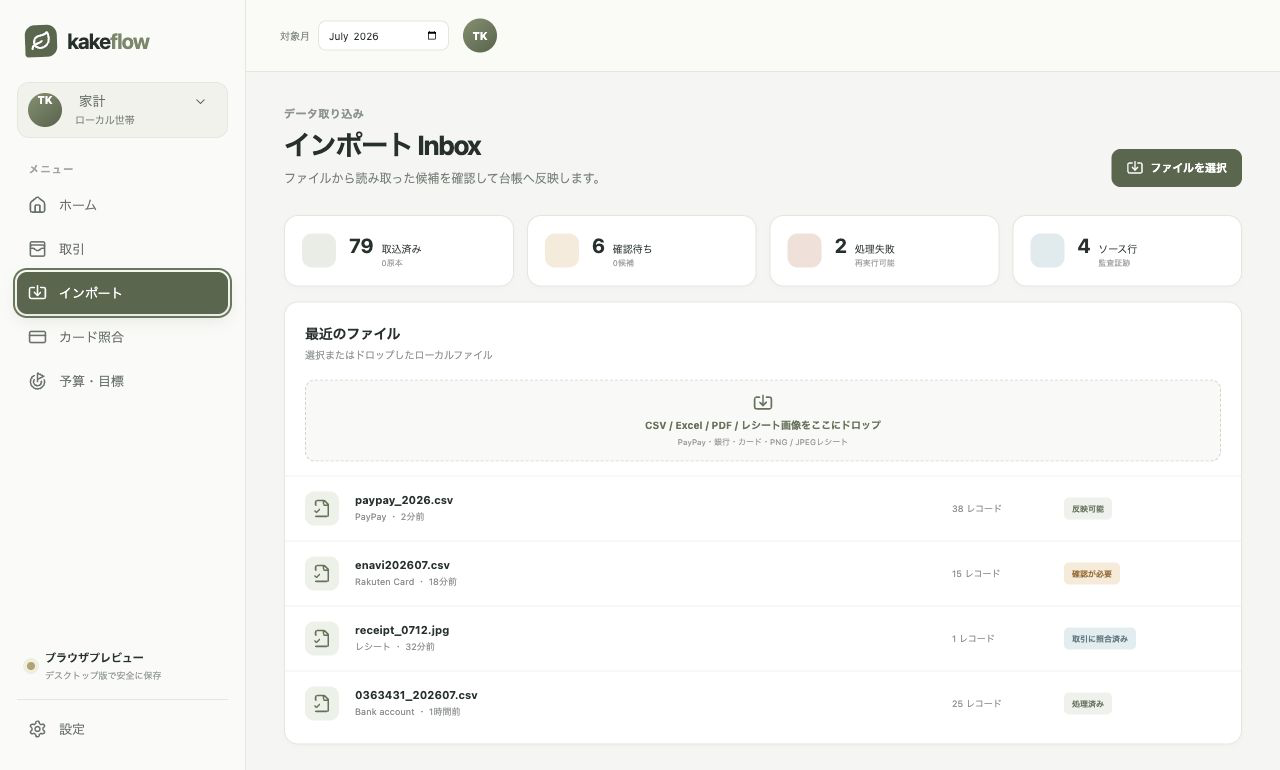
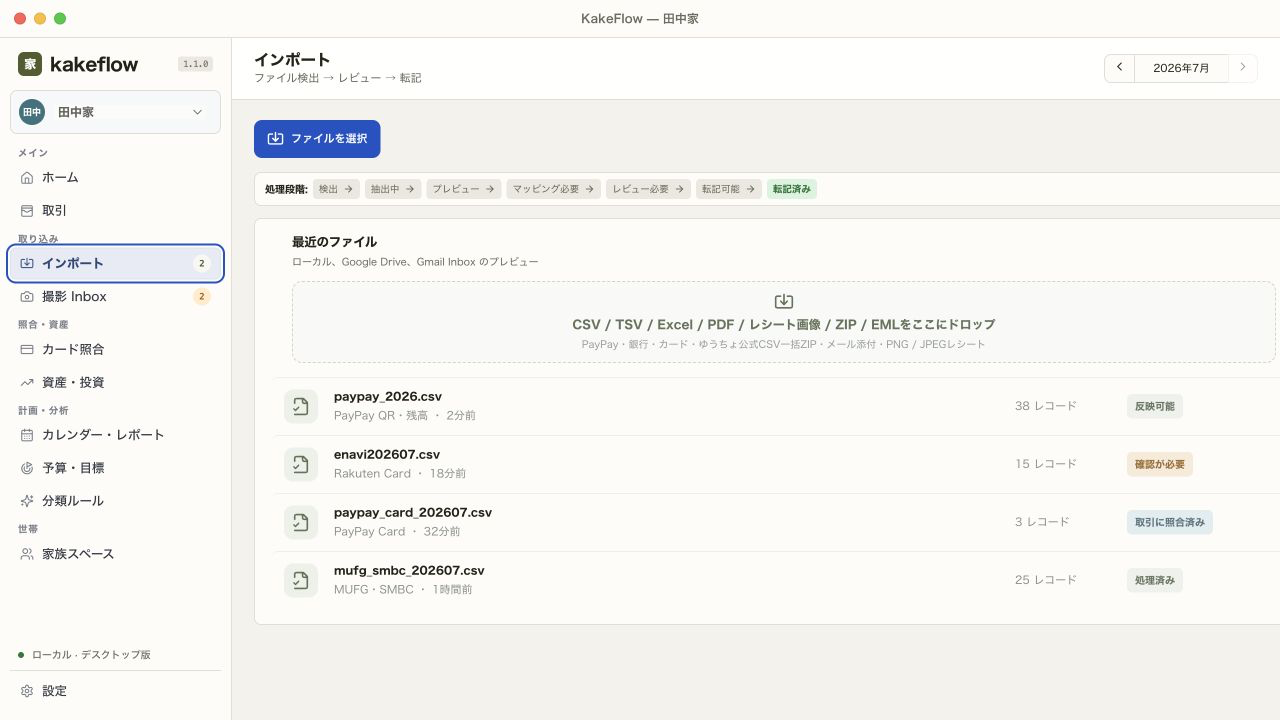
Rewrite KakeFlow page for new UI

diff --git a/apps/kakeflow/index.html b/apps/kakeflow/index.html
@@ -3,18 +3,20 @@
 <head>
   <meta charset="utf-8">
   <meta name="viewport" content="width=device-width, initial-scale=1">
-  <title>KakeFlow — 家計の流れを、正しくひとつに。</title>
-  <meta name="description" content="KakeFlow は、銀行・カード・レシート・証券データを、根拠の残る家計簿へまとめる開発中のローカルファースト・デスクトップアプリです。">
+  <title>KakeFlow — 記録から、次のアクションへ。</title>
+  <meta name="description" content="KakeFlow は、家計データを端末内で取り込み、確認し、根拠の残る台帳から次に必要なアクションまで見渡せる、開発中のローカルファースト・デスクトップアプリです。">
   <link rel="canonical" href="https://thangldw.github.io/apps/kakeflow/">
   <meta property="og:type" content="website">
-  <meta property="og:title" content="KakeFlow — Coming soon">
-  <meta property="og:description" content="ばらばらな家計データを、照合できる台帳とダッシュボードへ。">
+  <meta property="og:title" content="KakeFlow — 記録から、次のアクションへ。">
+  <meta property="og:description" content="取り込み、確認、照合、計画を、ひとつの家計ワークスペースで。">
   <meta property="og:url" content="https://thangldw.github.io/apps/kakeflow/">
   <meta property="og:image" content="https://thangldw.github.io/apps/kakeflow/assets/screenshots/kakeflow-overview.png">
+  <meta property="og:image:width" content="1280">
+  <meta property="og:image:height" content="720">
   <meta name="twitter:card" content="summary_large_image">
   <meta name="theme-color" content="#f7f6f1">
   <link rel="icon" href="/favicon.svg" type="image/svg+xml">
-  <link rel="stylesheet" href="kakeflow-page.css?v=20260714">
+  <link rel="stylesheet" href="kakeflow-page.css?v=20260716">
   <script defer src="/js/analytics.js"></script>
 </head>
 <body>
@@ -25,10 +27,10 @@
       <a class="wordmark" href="#top" aria-label="KakeFlow ホーム">kake<span>flow</span></a>
       <button class="menu-toggle" type="button" aria-expanded="false" aria-controls="primary-nav">メニュー</button>
       <nav id="primary-nav" aria-label="ページ内ナビゲーション">
-        <a href="#workflow">仕組み</a>
+        <a href="#workflow">使い方</a>
         <a href="#screens">画面</a>
-        <a href="#investments">投資管理</a>
-        <a href="#roadmap">公開予定</a>
+        <a href="#workspaces">できること</a>
+        <a href="#release">リリース</a>
       </nav>
       <a class="button button-small button-outline" href="/apps/">All projects</a>
     </div>
@@ -39,132 +41,132 @@
       <div class="hero-shell">
         <div class="hero-copy">
           <p class="status-line"><span aria-hidden="true"></span>COMING SOON · PRIVATE DEVELOPMENT</p>
-          <p class="eyebrow">HOUSEHOLD FINANCE, WITH A TRACEABLE SOURCE</p>
-          <h1>家計の流れを、<br><em>正しくひとつに。</em></h1>
-          <p class="hero-lede">銀行、カード、PayPay、レシート、PDF、証券口座。ばらばらの記録をあなたのパソコンでつなぎ、二重計上を防ぎながら、数字の根拠までたどれる家計簿を目指しています。</p>
+          <p class="eyebrow">FROM HOUSEHOLD RECORDS TO THE NEXT ACTION</p>
+          <h1>家計を記録する。<br><em>次にやることまでわかる。</em></h1>
+          <p class="hero-lede">銀行、カード、レシート、電子マネー、証券口座。ばらばらの記録を端末内で取り込み、確認が必要な項目を先に整理。確定した台帳から、今月の状況と次のアクションをひとつの画面で見渡せます。</p>
           <div class="hero-actions">
             <span class="button button-primary button-disabled">Coming soon</span>
-            <a class="button button-paper" href="#workflow">プロダクトの仕組みを見る</a>
+            <a class="button button-paper" href="#workflow">新しい使い方を見る</a>
           </div>
-          <p class="release-note">このページは開発中プロダクトのプレビューです。ソースコード、ダウンロード、リリースはまだ公開していません。</p>
+          <p class="release-note">掲載画面は開発中の UI プレビューです。ソースコード、ダウンロード、正式なリリース日はまだ公開していません。</p>
           <ul class="trust-row" aria-label="KakeFlow の基本原則">
             <li><strong>Local-first</strong><span>家計データは端末内で処理</span></li>
-            <li><strong>Evidence-linked</strong><span>元ファイル・行まで追跡</span></li>
-            <li><strong>Review first</strong><span>確認前に台帳へ記帳しない</span></li>
+            <li><strong>Review-gated</strong><span>確認してから台帳へ反映</span></li>
+            <li><strong>Evidence-linked</strong><span>数字から原本まで追跡</span></li>
           </ul>
         </div>
 
         <figure class="hero-product">
-          <div class="product-bar" aria-hidden="true"><span></span><span></span><span></span><b>KakeFlow · Preview</b></div>
-          <img src="assets/screenshots/kakeflow-overview.png" width="1280" height="1073" alt="KakeFlow の家計概要。純資産、収入、支出、収支推移、最近の取引、カード支払いを表示" fetchpriority="high">
-          <figcaption>家計簿・キャッシュフロー・資産負債を、同じ確定済み台帳から表示します。</figcaption>
+          <div class="product-bar" aria-hidden="true"><span></span><span></span><span></span><b>KakeFlow — 田中家</b></div>
+          <img src="assets/screenshots/kakeflow-overview.png" width="1280" height="720" alt="KakeFlow のホーム画面。純資産、収入、支出、貯蓄見込み、アクションセンター、収支推移を表示" fetchpriority="high">
+          <figcaption>Home は集計結果だけでなく、カード引落、予算超過、重複候補、低信頼度 OCR など、対応が必要な項目を先に示します。</figcaption>
         </figure>
       </div>
     </section>
 
-    <section class="principles" aria-label="KakeFlow が解決する三つの課題">
-      <article><span>01</span><div><b>原本を一つの Inbox へ</b><p>対応する明細、PDF、画像を同じ場所で確認。</p></div></article>
-      <article><span>02</span><div><b>支払いを二重に数えない</b><p>カード利用と後日の銀行引落を分けて照合。</p></div></article>
-      <article><span>03</span><div><b>数値から原本へ戻れる</b><p>集計から取引、元の行やレシートまで追跡。</p></div></article>
+    <section class="principles" aria-label="新しい KakeFlow の三つの体験">
+      <article><span>01</span><div><b>迷わない Home</b><p>状況、重要アクション、データ品質を同じ入口に。</p></div></article>
+      <article><span>02</span><div><b>確認してから記帳</b><p>マッピング、重複、OCR をレビューして確定。</p></div></article>
+      <article><span>03</span><div><b>視点をすぐ切り替える</b><p>口座・家族・発生・資金移動の範囲を明示。</p></div></article>
     </section>
 
     <section class="section workflow-section" id="workflow">
       <div class="section-head split-head">
-        <div><p class="eyebrow">ONE REVIEWABLE DATA FLOW</p><h2>原本から家計簿まで、<br>一つの見える流れに。</h2></div>
-        <p>ファイルはそのまま取引になりません。原本を保存し、抽出候補を照合し、人が確認した取引だけを台帳へ記帳する設計です。</p>
+        <div><p class="eyebrow">ONE REVIEWABLE HOUSEHOLD FLOW</p><h2>集める。確かめる。<br>判断する。</h2></div>
+        <p>KakeFlow は、ファイルを入れた瞬間に家計を上書きしません。原本を残し、候補をレビューし、確定した取引だけを台帳とレポートへつなぎます。</p>
       </div>
 
       <div class="workflow-board" id="workflow-board">
         <canvas id="workflow-lines" aria-hidden="true"></canvas>
-        <div class="board-label">KakeFlow household data canvas</div>
+        <div class="board-label">KakeFlow reviewable household flow</div>
         <section class="board-cluster source-cluster" aria-labelledby="source-title">
-          <p id="source-title">01 · SOURCES</p>
+          <p id="source-title">01 · COLLECT</p>
           <div class="source-list">
-            <article class="board-node source-node" data-node="bank"><b>銀行口座</b><span>CSV・取引明細</span></article>
-            <article class="board-node source-node" data-node="card"><b>クレジットカード</b><span>CSV・PDF 明細</span></article>
-            <article class="board-node source-node" data-node="wallet"><b>PayPay・電子マネー</b><span>複数行イベント</span></article>
-            <article class="board-node source-node" data-node="receipt"><b>レシート・PDF</b><span>画像・スキャン</span></article>
-            <article class="board-node source-node" data-node="securities"><b>証券口座</b><span>残高・取引履歴</span></article>
+            <article class="board-node source-node" data-node="bank"><b>銀行・電子マネー</b><span>CSV・XLSX・明細</span></article>
+            <article class="board-node source-node" data-node="card"><b>カード</b><span>利用明細・請求・引落</span></article>
+            <article class="board-node source-node" data-node="wallet"><b>フォルダ・メール</b><span>ローカル・Drive・Gmail</span></article>
+            <article class="board-node source-node" data-node="receipt"><b>撮影 Inbox</b><span>レシート画像・PDF・OCR</span></article>
+            <article class="board-node source-node" data-node="securities"><b>証券・資産</b><span>残高・取引・為替</span></article>
           </div>
         </section>
         <section class="board-cluster process-cluster" aria-labelledby="process-title">
-          <p id="process-title">02 · EXTRACT</p>
-          <article class="board-node sticky lavender" data-node="inbox"><small>IMMUTABLE</small><b>Import Inbox</b><span>原本を保管し形式を判定</span></article>
-          <article class="board-node sticky yellow" data-node="extract"><small>LOCAL</small><b>Extract・OCR</b><span>日付、金額、明細、証拠位置</span></article>
+          <p id="process-title">02 · DETECT</p>
+          <article class="board-node sticky lavender" data-node="inbox"><small>SOURCE KEPT</small><b>Import Inbox</b><span>形式と処理段階を見える化</span></article>
+          <article class="board-node sticky yellow" data-node="extract"><small>ON DEVICE</small><b>抽出・OCR</b><span>日付、金額、明細、証拠位置</span></article>
         </section>
         <section class="board-cluster integrity-cluster" aria-labelledby="integrity-title">
-          <p id="integrity-title">03 · RECONCILE</p>
-          <article class="board-node sticky coral" data-node="dedupe"><b>重複・振替を照合</b><span>同じ支出を一件にまとめる</span></article>
-          <article class="board-node sticky blue" data-node="receipt-match"><b>レシートをリンク</b><span>明細の証拠として関連付け</span></article>
-          <article class="board-node sticky pink" data-node="card-match"><b>カード支払いを照合</b><span>銀行引落を負債返済へ</span></article>
+          <p id="integrity-title">03 · REVIEW</p>
+          <article class="board-node sticky coral" data-node="dedupe"><b>マッピング・重複</b><span>口座、カテゴリ、振替候補を確認</span></article>
+          <article class="board-node sticky blue" data-node="receipt-match"><b>根拠をリンク</b><span>元行、PDF、レシートへ戻れる</span></article>
+          <article class="board-node sticky pink" data-node="card-match"><b>カード照合</b><span>請求と引落を負債返済へ</span></article>
         </section>
         <section class="ledger-hub" aria-labelledby="ledger-title">
-          <span>04 · CONFIRM</span><b id="ledger-title">確定済み台帳</b><small>発生ベースの複式記帳</small>
+          <span>04 · POST</span><b id="ledger-title">確定済み台帳</b><small>未確認候補は集計しない</small>
         </section>
         <section class="board-cluster outcome-cluster" aria-labelledby="outcome-title">
-          <p id="outcome-title">05 · UNDERSTAND</p>
-          <article class="board-node outcome-node" data-node="household"><b>家計簿</b><span>収支・予算・カテゴリ</span></article>
-          <article class="board-node outcome-node" data-node="cashflow"><b>キャッシュフロー</b><span>実際の入出金</span></article>
-          <article class="board-node outcome-node" data-node="balance"><b>資産・負債</b><span>純資産とカード未払</span></article>
-          <article class="board-node outcome-node" data-node="portfolio"><b>投資ポートフォリオ</b><span>評価額・損益・配分</span></article>
+          <p id="outcome-title">05 · ACT</p>
+          <article class="board-node outcome-node" data-node="household"><b>Home</b><span>状況・アクション・品質</span></article>
+          <article class="board-node outcome-node" data-node="cashflow"><b>取引・照合</b><span>検索・修正・ドリルダウン</span></article>
+          <article class="board-node outcome-node" data-node="balance"><b>計画・分析</b><span>予算・予測・固定費</span></article>
+          <article class="board-node outcome-node" data-node="portfolio"><b>資産・家族</b><span>純資産・投資・共有範囲</span></article>
         </section>
       </div>
 
-      <aside class="card-rule" aria-labelledby="card-rule-title">
-        <div><p class="eyebrow">CARD PAYMENT RULE</p><h3 id="card-rule-title">カード利用は一度だけ支出にする。</h3><p>購入時に費用とカード負債を記録し、後日の銀行引落は負債の返済として扱います。</p></div>
+      <aside class="card-rule" aria-labelledby="review-rule-title">
+        <div><p class="eyebrow">REVIEW GATE</p><h3 id="review-rule-title">未確認の候補を、確定した数字に混ぜない。</h3><p>処理段階と確認理由を見せることで、「どこまで集計済みか」と「次に何を直すか」を迷わず判断できます。</p></div>
         <ol>
-          <li><span>7/3</span><b>カードで買い物</b><strong>支出 ¥5,400</strong></li>
-          <li><span>7/27</span><b>銀行から引落</b><strong>負債 −¥5,400</strong></li>
-          <li><span>結果</span><b>支出は一件</b><strong>二重計上なし</strong></li>
+          <li><span>検出</span><b>原本と形式を保存</b><strong>集計外</strong></li>
+          <li><span>レビュー</span><b>口座・重複・根拠を確認</b><strong>判断待ち</strong></li>
+          <li><span>転記</span><b>確定済み台帳へ反映</b><strong>集計対象</strong></li>
         </ol>
       </aside>
     </section>
 
     <section class="section screens-section" id="screens">
       <div class="section-head split-head">
-        <div><p class="eyebrow">PRODUCT PREVIEW</p><h2>数字を見る。<br>根拠まで確かめる。</h2></div>
-        <p>集計だけで終わらず、取引、取り込み候補、元ファイルへ段階的に戻れる体験を設計しています。</p>
+        <div><p class="eyebrow">CURRENT v1.1 UI</p><h2>目的ごとに分かれ、<br>同じ台帳でつながる。</h2></div>
+        <p>Home、取引、インポートの各画面は、役割をひとつに絞っています。どの画面でも対象月と集計範囲が明示され、次の作業へそのまま移動できます。</p>
       </div>
       <div class="screen-showcase">
         <div class="screen-tabs" role="tablist" aria-label="KakeFlow の画面">
-          <button id="tab-overview" role="tab" aria-selected="true" aria-controls="screen-panel" data-screen="overview" type="button"><b>家計の概要</b><span>収支・純資産・カード支払い</span></button>
-          <button id="tab-transactions" role="tab" aria-selected="false" aria-controls="screen-panel" data-screen="transactions" type="button" tabindex="-1"><b>取引台帳</b><span>検索・分類・証拠リンク</span></button>
-          <button id="tab-import" role="tab" aria-selected="false" aria-controls="screen-panel" data-screen="import" type="button" tabindex="-1"><b>Import Inbox</b><span>候補・重複・照合をレビュー</span></button>
+          <button id="tab-overview" role="tab" aria-selected="true" aria-controls="screen-panel" data-screen="overview" type="button"><b>Home</b><span>状況・アクション・データ品質</span></button>
+          <button id="tab-transactions" role="tab" aria-selected="false" aria-controls="screen-panel" data-screen="transactions" type="button" tabindex="-1"><b>取引</b><span>確定済み台帳・検索・証跡</span></button>
+          <button id="tab-import" role="tab" aria-selected="false" aria-controls="screen-panel" data-screen="import" type="button" tabindex="-1"><b>Import Inbox</b><span>検出・レビュー・転記</span></button>
         </div>
         <figure id="screen-panel" role="tabpanel" aria-labelledby="tab-overview">
-          <img id="screen-image" src="assets/screenshots/kakeflow-overview.png" width="1280" height="1073" alt="KakeFlow 家計の概要画面">
-          <figcaption id="screen-caption"><b>家計の概要</b><span>支出、キャッシュフロー、カード負債の状態を一画面で把握します。</span></figcaption>
+          <img id="screen-image" src="assets/screenshots/kakeflow-overview.png" width="1280" height="720" alt="KakeFlow の Home 画面">
+          <figcaption id="screen-caption"><b>Home</b><span>世帯の状況、優先アクション、確定データの品質をひとつの入口で確認します。</span></figcaption>
         </figure>
       </div>
     </section>
 
-    <section class="section investment-section" id="investments">
+    <section class="section investment-section" id="workspaces">
       <div class="investment-copy">
-        <p class="eyebrow">INVESTMENTS, SEPARATE FROM SPENDING</p>
-        <h2>投資も、家計の全体像へ。</h2>
-        <p>証券残高は日常の支出に変換せず、別のポートフォリオとして保存。銘柄・現金・為替レートを、評価額と損益の観点で純資産へ統合します。</p>
+        <p class="eyebrow">TEN FOCUSED WORKSPACES, ONE LEDGER</p>
+        <h2>日々の記録から、<br>家族の計画まで。</h2>
+        <p>新しいナビゲーションは、機能名の羅列ではなく、家計管理の仕事に沿って整理されています。取り込み、照合、分析、共有が別々のツールに分断されません。</p>
       </div>
-      <div class="investment-board" aria-label="KakeFlow の投資管理構想">
-        <article><span>01</span><b>残高スナップショット</b><p>口座・銘柄・数量・為替レートを履歴として保持。</p></article>
-        <article><span>02</span><b>取引履歴</b><p>対応する売買を元行とともに取り込み、確認可能に。</p></article>
-        <article><span>03</span><b>評価と損益</b><p>評価額、実現・含み損益、配当、手数料、税を整理。</p></article>
+      <div class="investment-board" aria-label="KakeFlow のワークスペース">
+        <article><span>01</span><b>取り込み</b><p>Import Inbox と撮影 Inbox で、ファイル、メール添付、レシートを同じレビュー体験へ。</p></article>
+        <article><span>02</span><b>照合・資産</b><p>カード請求と銀行引落を照合し、資産・投資は日常支出と分けて純資産へ統合。</p></article>
+        <article><span>03</span><b>計画・世帯</b><p>カレンダー、月次・年次レポート、予算、目標、分類ルール、家族スペースまで連携。</p></article>
       </div>
     </section>
 
-    <section class="section boundaries-section" id="roadmap">
+    <section class="section boundaries-section" id="release">
       <div class="section-head split-head">
         <div><p class="eyebrow">HONEST PREVIEW BOUNDARY</p><h2>開発中の現在。<br>公開までのこれから。</h2></div>
-        <p>このページは方向性を先行公開するためのものです。利用可能なプロダクトやリリースを示すものではありません。</p>
+        <p>このページは、新しい KakeFlow の体験を先行公開するものです。今すぐ利用できる製品や正式リリースを示すものではありません。</p>
       </div>
       <div class="boundary-grid">
-        <article class="available"><span>IN DEVELOPMENT</span><h3>現在検証していること</h3><ul><li>ローカル取り込みと明示的レビュー</li><li>銀行・カード・電子マネーの照合</li><li>家計、Cash Flow、資産負債、投資の統合表示</li><li>元ファイルまで戻れる根拠の設計</li></ul></article>
-        <article><span>BEFORE PUBLIC LAUNCH</span><h3>公開前に仕上げること</h3><ul><li>配布と更新の安全な経路</li><li>対応形式と制約の明確な文書化</li><li>macOS・Windows の検証</li><li>プライバシーとデータ保護の説明</li></ul></article>
-        <article class="limitations"><span>PREVIEW LIMITS</span><h3>今はまだ提供しないもの</h3><ul><li>アプリのダウンロード</li><li>ソースコードと private repository</li><li>正式な対応金融機関一覧</li><li>リリース日と価格</li></ul></article>
+        <article class="available"><span>IN DEVELOPMENT</span><h3>現在検証していること</h3><ul><li>仕事別に再編したサイドナビゲーション</li><li>Home の Action Center と Data Quality</li><li>撮影 Inbox、予算・目標、分類ルール、家族スペース</li><li>口座・家族・計上基準のスコープ操作</li></ul></article>
+        <article><span>BEFORE PUBLIC LAUNCH</span><h3>公開前に仕上げること</h3><ul><li>macOS・Windows の配布と更新経路</li><li>対応する金融機関・形式・制約の文書化</li><li>バックアップ、復元、データ保護の説明</li><li>実データを使った packaged app の検証</li></ul></article>
+        <article class="limitations"><span>PREVIEW LIMITS</span><h3>今はまだ提供しないもの</h3><ul><li>アプリの一般ダウンロード</li><li>ソースコードと private repository</li><li>正式な対応金融機関一覧</li><li>リリース日、価格、サポート条件</li></ul></article>
       </div>
     </section>
 
     <section class="closing-section">
-      <div><p class="eyebrow">LOCAL-FIRST · REVIEWABLE · COMING SOON</p><h2>正しい家計簿を、<br>あなたのパソコンで。</h2></div>
+      <div><p class="eyebrow">LOCAL-FIRST · REVIEWABLE · ACTIONABLE</p><h2>家計の数字を、<br>次の判断につなげる。</h2></div>
       <div class="closing-actions"><span class="button button-primary button-disabled">Coming soon</span><a class="button button-paper" href="/apps/">Back to projects</a></div>
     </section>
   </main>
@@ -175,6 +177,6 @@
     <p>© 2026 KakeFlow · Preview</p>
   </footer>
 
-  <script src="kakeflow-page.js?v=20260714"></script>
+  <script src="kakeflow-page.js?v=20260716"></script>
 </body>
 </html>

diff --git a/apps/kakeflow/kakeflow-page.js b/apps/kakeflow/kakeflow-page.js
@@ -24,26 +24,26 @@
     overview: {
       src: "assets/screenshots/kakeflow-overview.png",
       width: 1280,
-      height: 1073,
-      title: "家計の概要",
-      alt: "KakeFlow 家計の概要画面",
-      description: "支出、キャッシュフロー、カード負債の状態を一画面で把握します。",
+      height: 720,
+      title: "Home",
+      alt: "KakeFlow の Home 画面",
+      description: "世帯の状況、優先アクション、確定データの品質をひとつの入口で確認します。",
     },
     transactions: {
       src: "assets/screenshots/kakeflow-transactions.png",
       width: 1280,
       height: 720,
-      title: "取引台帳",
-      alt: "KakeFlow の検索可能な取引台帳画面",
-      description: "カテゴリやタグを整理し、取引から元のファイルやレシートへ戻れます。",
+      title: "取引",
+      alt: "KakeFlow の確定済み取引画面",
+      description: "対象月、口座、家族、計上基準を切り替えながら、確定済み台帳を検索します。",
     },
     import: {
       src: "assets/screenshots/kakeflow-import-inbox.png",
       width: 1280,
-      height: 770,
-      title: "Import Inbox",
+      height: 720,
+      title: "インポート Inbox",
       alt: "KakeFlow の Import Inbox 画面",
-      description: "取り込み候補、重複、振替、カード支払い、確認が必要な抽出結果をレビューします。",
+      description: "ファイルの検出から抽出、マッピング、レビュー、転記までの処理段階を確認します。",
     },
   };
 